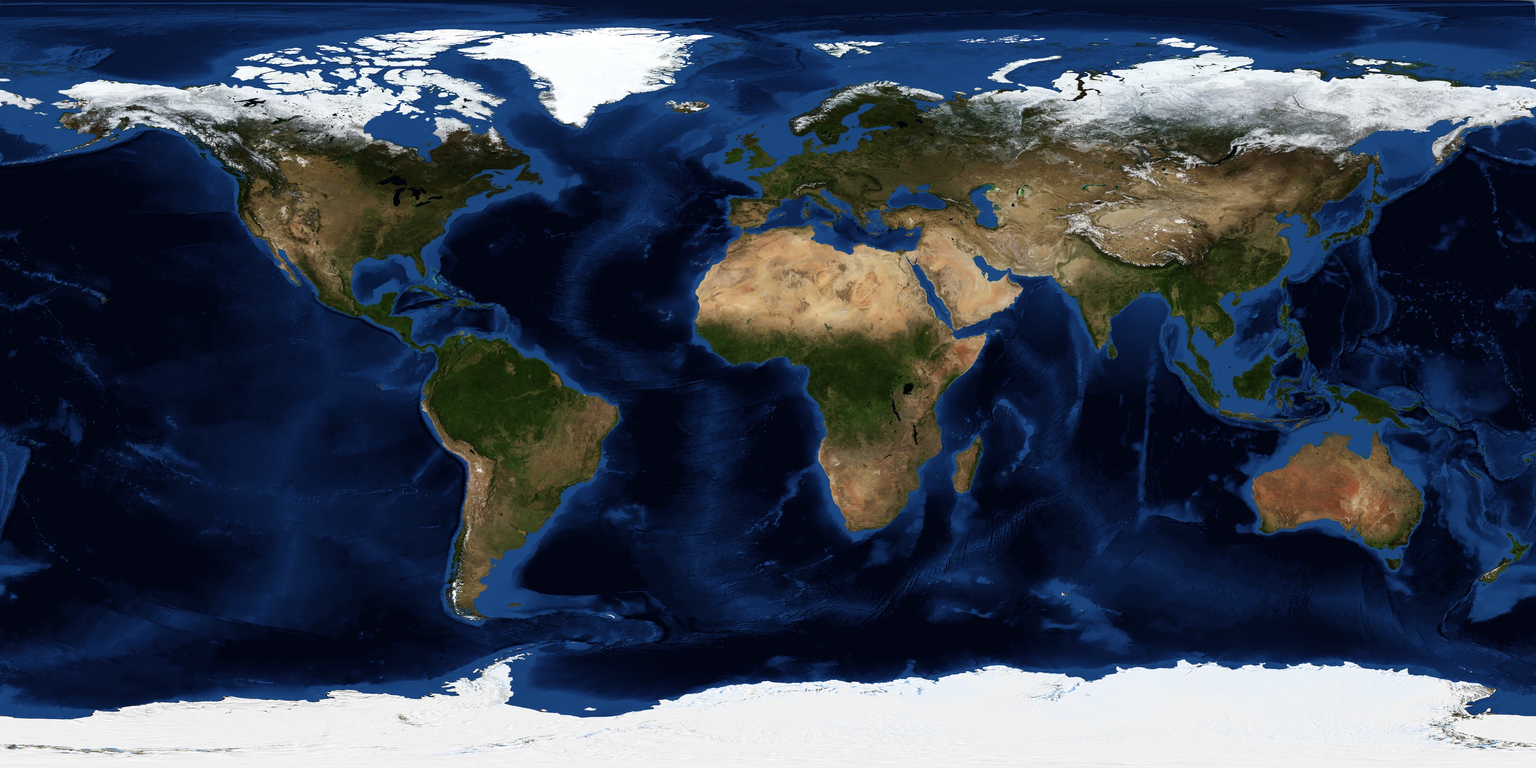
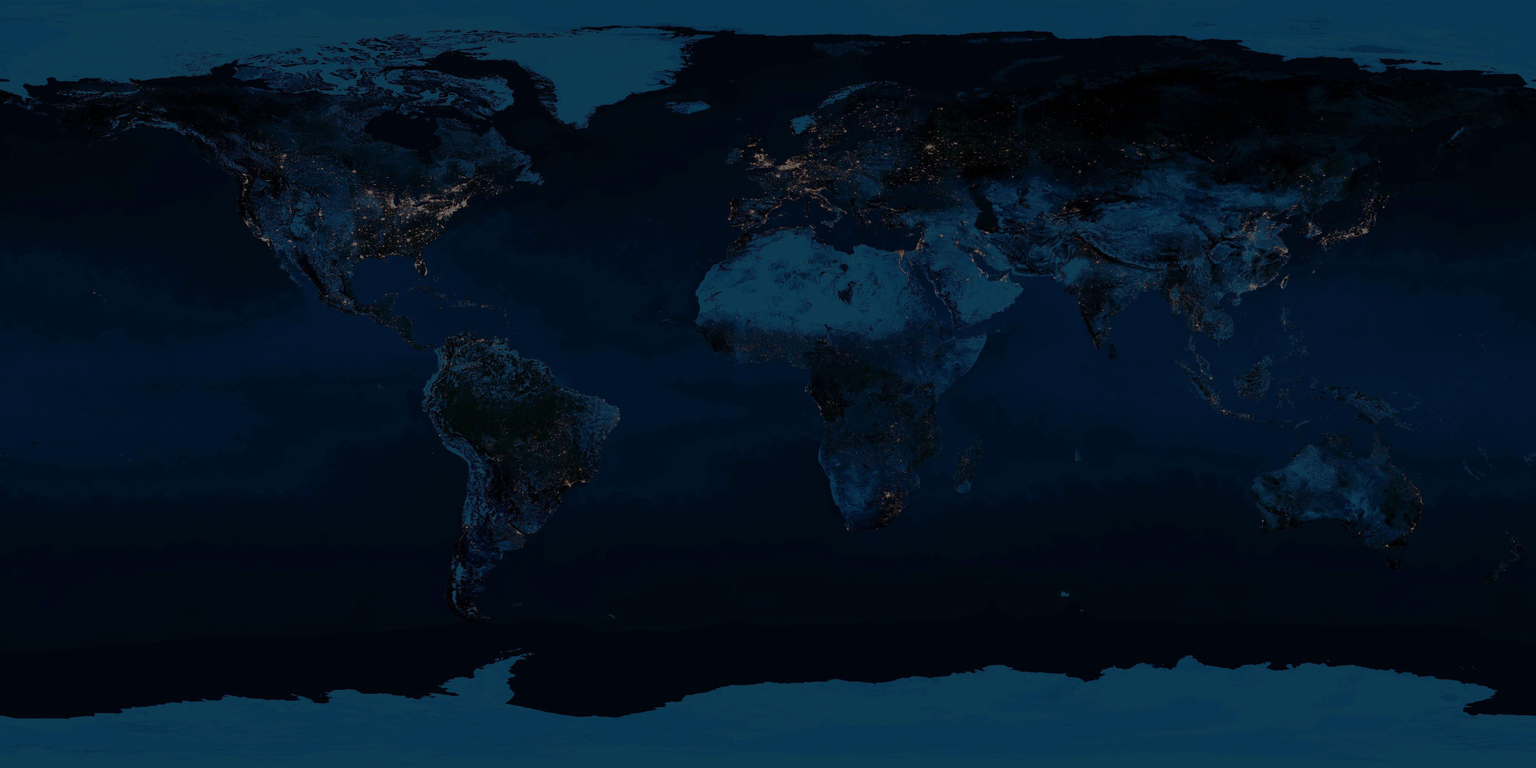
feat: ASTRA NEXUS globe narration — click-to-analyze spatial intelligence layer

diff --git a/website/src/app/portal/globe/page.tsx b/website/src/app/portal/globe/page.tsx
@@ -78,7 +78,7 @@ function GlobeScene({ posts, stratumSites, onGlobeClick, onMouseMove, onStratumS
     const loader = new THREE.TextureLoader();
     // Try multiple sources — fallback chain
     const sources = [
-      'https://unpkg.com/three-globe/example/img/earth-dark.jpg',
+      '/earth.jpg',
       'https://raw.githubusercontent.com/mrdoob/three.js/dev/examples/textures/planets/earth_atmos_2048.jpg',
     ];
     let loaded = false;
@@ -189,6 +189,8 @@ export default function PortalGlobe() {
   const [savingProject, setSavingProject] = useState<string | null>(null);
   const [toast, setToast] = useState<string | null>(null);
   const [savingSite, setSavingSiteState] = useState(false);
+  const [narrating, setNarrating] = useState(false);
+  const [narration, setNarration] = useState<string | null>(null);
   const [siteSaved, setSiteSaved] = useState(false);
 
   const supabase = createClient();
@@ -231,6 +233,22 @@ export default function PortalGlobe() {
     setCopied(true);
     setTimeout(() => setCopied(false), 2000);
   };
+  const narrateLocation = async () => {
+    if (!readout) return;
+    setNarrating(true);
+    setNarration(null);
+    try {
+      const r = await fetch("/api/nexus/narrate", {
+        method: "POST",
+        headers: { "Content-Type": "application/json" },
+        body: JSON.stringify({ lat: readout.lat, lng: readout.lng, layers, readout })
+      });
+      const j = await r.json();
+      setNarration(j.narration || "No analysis available");
+    } catch { setNarration("ASTRA unavailable"); }
+    finally { setNarrating(false); }
+  };
+
 
   const flagAnomaly = async () => {
     if (!readout || flagging) return;
@@ -346,7 +364,7 @@ export default function PortalGlobe() {
         )}
 
         {readout && (
-          <div className="absolute top-4 right-4 w-64 bg-[#0d1410] border border-[#1a2a1e] z-20">
+          <div className="absolute top-4 right-4 w-64 bg-[#0d1410] border border-[#1a2a1e] z-20 max-h-[85vh] overflow-y-auto">
             <div className="flex items-center justify-between px-4 py-3 border-b border-[#1a2a1e]">
               <span className="text-[#5b7c6f] text-[9px] tracking-[0.25em] font-light">POINT READOUT</span>
               <div className="flex items-center gap-2">
@@ -467,6 +485,15 @@ export default function PortalGlobe() {
               >
                 <span className="text-[#D4AF37] text-[9px] tracking-[0.2em] font-light">→ OPEN IN VIEWER</span>
               </a>
+              <button onClick={narrateLocation} disabled={narrating} className="w-full flex items-center justify-center gap-2 py-2.5 bg-[#0a1410] hover:bg-[#111a14] transition-colors border-b border-[#1a2a1e] disabled:opacity-50">
+                <span className="text-[#12A8AC] text-[9px] tracking-[0.2em] font-light">{narrating ? "ASTRA ANALYZING..." : "→ ASTRA NARRATE"}</span>
+              </button>
+              {narration && (
+                <div className="px-4 py-3 border-b border-[#1a2a1e] bg-[#060e0a] max-h-64 overflow-y-auto">
+                  <p className="text-[#3a4a3e] text-[8px] tracking-[0.15em] mb-1.5">ASTRA NEXUS</p>
+                  <p className="text-[#c8c4ba] text-[10px] font-light leading-relaxed">{narration}</p>
+                </div>
+              )}
             </div>
             <div className="border-t border-[#1a2a1e] grid grid-cols-3 gap-px bg-[#1a2a1e]">
               <button onClick={flagAnomaly} disabled={flagging || flagDone} className="bg-[#0d1410] px-3 py-2.5 flex items-center justify-center gap-1.5 hover:bg-[#111a14] transition-colors disabled:opacity-50">

diff --git a/website/src/app/api/nexus/narrate/route.ts b/website/src/app/api/nexus/narrate/route.ts
@@ -1,0 +1,45 @@
+import { NextResponse } from 'next/server'
+
+export async function POST(req: Request) {
+  try {
+    const { lat, lng, layers, readout } = await req.json()
+
+    const prompt = `You are ASTRA NEXUS — the spatial intelligence layer of LithicEarth.
+
+A user has clicked coordinates ${lat}°N, ${lng}°E on the globe.
+
+Available sensor data at this point:
+${readout?.elevation ? `- Elevation: ${readout.elevation} ft (USGS 3DEP)` : ''}
+${readout?.ndvi ? `- NDVI: ${readout.ndvi} (Sentinel-2 vegetation index)` : ''}
+${readout?.sarVV ? `- SAR backscatter: ${readout.sarVV} dB (Sentinel-1)` : ''}
+${readout?.magnetic ? `- Magnetic anomaly: ${readout.magnetic} nT` : ''}
+${readout?.geology ? `- Geology: ${readout.geology}` : ''}
+${readout?.soil ? `- Soil type: ${readout.soil}` : ''}
+
+Active layers: ${layers?.filter((l: { active: boolean }) => l.active).map((l: { label: string }) => l.label).join(', ') || 'terrain, satellite'}
+
+In 2-3 sentences, narrate what is geospatially significant about this location.
+Identify any convergence patterns. Flag if this location warrants ground-truth investigation.
+Be direct and technical. Lead with the most significant finding.`
+
+    const response = await fetch('https://api.anthropic.com/v1/messages', {
+      method: 'POST',
+      headers: {
+        'Content-Type': 'application/json',
+        'x-api-key': process.env.ANTHROPIC_API_KEY!,
+        'anthropic-version': '2023-06-01'
+      },
+      body: JSON.stringify({
+        model: 'claude-sonnet-4-5',
+        max_tokens: 300,
+        messages: [{ role: 'user', content: prompt }]
+      })
+    })
+
+    const data = await response.json()
+    const text = data.content?.[0]?.text || 'ASTRA analysis unavailable'
+    return NextResponse.json({ narration: text, lat, lng })
+  } catch (e) {
+    return NextResponse.json({ error: String(e) }, { status: 500 })
+  }
+}

diff --git a/_docs/stratum/regulatory/overview.md b/_docs/stratum/regulatory/overview.md
@@ -1,0 +1,39 @@
+# Ceto Regulatory Domain Overview
+
+## The 14 Core Domains
+
+1. **ASTM E1527-21 Standards** — Current Phase I ESA standard, supersedes E1527-13
+2. **Recognized Environmental Conditions (RECs)** — Primary findings classification
+3. **Controlled RECs (CRECs)** — Remediated but with continuing obligations
+4. **Historical RECs (HRECs)** — Past conditions, no current concern
+5. **De Minimis Conditions** — Minor conditions not warranting REC status
+6. **Data Gap Analysis** — Missing information impact assessment
+7. **Vapor Encroachment Screening (VES)** — ASTM E2600 protocol
+8. **Agency File Review** — TCEQ, EPA ECHO, RCRA, Superfund
+9. **Historical Research** — Sanborn maps, aerial photos, directories
+10. **Site Reconnaissance** — Physical inspection findings
+11. **Interviews** — Owner, occupant, local government
+12. **Underground Storage Tanks (USTs)** — Registration, closure, releases
+13. **Wetlands & Waters** — USACE jurisdiction, NWI classification
+14. **CERCLA/Superfund** — NPL, SEMS, FINDS federal databases
+
+## Critical Definitions (ASTM E1527-21)
+
+**REC**: The presence or likely presence of any hazardous substances or petroleum 
+products in, on, or at a property due to release to the environment, under conditions 
+indicative of a release to the environment, or under conditions that pose a material 
+threat of a future release to the environment.
+
+**CREC**: A recognized environmental condition resulting from a past release of 
+hazardous substances or petroleum products that has been addressed to the satisfaction 
+of the applicable regulatory authority, with hazardous substances or petroleum products 
+allowed to remain in place subject to the implementation of required controls.
+
+**HREC**: A past release of any hazardous substances or petroleum products that has 
+occurred in connection with the property and has been addressed to the satisfaction of 
+the applicable regulatory authority or meeting unrestricted use criteria established by 
+a regulatory authority, without any controls.
+
+**De Minimis**: A condition that generally does not present a threat to human health 
+or the environment and that generally would not be the subject of an enforcement action 
+if brought to the attention of appropriate governmental agencies.

diff --git a/_docs/stratum/data_gaps/impact_statements.md b/_docs/stratum/data_gaps/impact_statements.md
@@ -1,0 +1,47 @@
+# Data Gap Impact Assessment Language
+
+## ASTM E1527-21 Requirements
+Data gaps must be identified AND their impact on the ability to identify RECs 
+must be assessed. Simply noting "records unavailable" is insufficient.
+
+## Required Structure
+Every data gap must include:
+1. What records were sought
+2. Why they were unavailable
+3. The impact on REC identification (significant / not significant)
+4. Justification for the impact assessment
+
+## Standard Impact Statements by Gap Type
+
+### Sanborn Maps Unavailable
+**Significant Impact**: "Sanborn Fire Insurance Maps were unavailable for [period]. 
+This data gap is considered significant as it limits the EP's ability to evaluate 
+historical uses of the subject property and surrounding properties during [period], 
+potentially obscuring RECs associated with historical industrial or commercial 
+operations during the period of non-coverage."
+
+**Not Significant**: "Sanborn Fire Insurance Maps were unavailable prior to [year]. 
+Review of aerial photographs, city directories, and county records indicates the 
+property was used for [use] during this period, limiting the significance of this 
+data gap."
+
+### Government Agency File Unavailable
+**Significant**: "TCEQ file review was not completed for [facility]. This data gap 
+is considered significant as regulatory files may contain documentation of releases, 
+corrective action requirements, or other information relevant to REC identification."
+
+### Owner Interview Not Conducted  
+"The current owner/operator declined to be interviewed. This data gap is considered 
+[significant/not significant] because [reasoning based on other available information]."
+
+### EDR Report Radius Limitation
+"The standard search radii established by ASTM E1527-21 were used. Sites beyond 
+these radii were not evaluated. This data gap is not considered significant as 
+sites beyond standard radii are unlikely to represent a significant environmental 
+concern to the subject property given [distance/hydrogeologic context]."
+
+## Common Data Gap Errors
+- Listing data gaps without impact statements (ASTM non-compliance)
+- Saying "not significant" without justification
+- Failing to note Sanborn coverage gaps by decade
+- Not assessing aerial photo coverage gaps pre-1940

diff --git a/_docs/stratum/language/audit_standards.md b/_docs/stratum/language/audit_standards.md
@@ -1,0 +1,33 @@
+# Phase I ESA Language Audit Standards
+
+## Prohibited Phrases (Non-Standard)
+| Prohibited | Standard Replacement |
+|------------|---------------------|
+| "appears clean" | "no RECs identified" |
+| "looks clean" | "no RECs identified" |
+| "seems to be uncontaminated" | "no evidence of contamination was identified" |
+| "probably no concern" | remove — qualify findings factually |
+| "minor spill" | "release" (never minimize) |
+| "old contamination" | "historical release" |
+| "cleaned up" | "remediated" or "addressed to regulatory closure" |
+| "no problems found" | "no RECs were identified" |
+| "environmentally safe" | EP cannot make this determination |
+| "no environmental issues" | "no RECs, CRECs, or HRECs were identified" |
+
+## Overstatement Flags
+- Claiming "no RECs" when UST closure documentation was not obtained
+- Stating property is "clean" based on visual inspection alone
+- Concluding no vapor encroachment without completing ASTM E2600 screening
+- Stating "no impact" from adjacent sites without hydrogeologic basis
+
+## Understatement Flags  
+- Documenting a release but not calling it a REC
+- Noting UST removal without assessing closure documentation
+- Listing regulatory database hits without assessing their significance
+- Identifying dry cleaner use without REC determination
+
+## Professional Judgment Qualifiers (Required Language)
+"In the professional judgment of the environmental professional..."
+"Based on reasonably ascertainable information..."
+"To the extent feasible given inherent limitations..."
+"This opinion is based on conditions observed at the time of the site visit..."

diff --git a/_docs/stratum/rec_matrix/tier_decision.md b/_docs/stratum/rec_matrix/tier_decision.md
@@ -1,0 +1,28 @@
+# REC Tier Decision Matrix
+
+## UST Scenarios
+| Condition | Correct Tier | Reasoning |
+|-----------|-------------|-----------|
+| Active UST, no release documented | REC | Material threat of future release |
+| UST removed, closure letter with NFA | HREC | Regulatory closure, no controls |
+| UST removed, closure letter with monitoring | CREC | Controls remain active |
+| UST removed, NO closure letter | REC | Cannot confirm clean closure |
+| UST on adjacent property, release migrating | REC | Actual release, migration pathway |
+| UST on adjacent property, no migration | De Minimis or No REC | No pathway to subject property |
+| Petroleum release, active remediation | REC | Active release, not resolved |
+| Petroleum release, NFA issued | HREC | Regulatory closure confirmed |
+
+## Dry Cleaner Scenarios
+| Condition | Correct Tier | Reasoning |
+|-----------|-------------|-----------|
+| Current dry cleaner on site | REC | PCE/TCE use, high release probability |
+| Former dry cleaner, no investigation | REC | Historical use without closure |
+| Former dry cleaner, NFA issued | HREC | Confirmed closure |
+| Adjacent dry cleaner, upgradient | REC | Migration pathway exists |
+| Adjacent dry cleaner, downgradient | De Minimis | No credible migration pathway |
+
+## Common Tier Errors
+- Calling a removed UST without closure letter a CREC (wrong — it's a REC)
+- Calling an NFA-issued petroleum release a CREC (wrong — it's an HREC)
+- Calling an active release a HREC (wrong — must be REC until NFA)
+- Downgrading to De Minimis without documented regulatory concurrence
